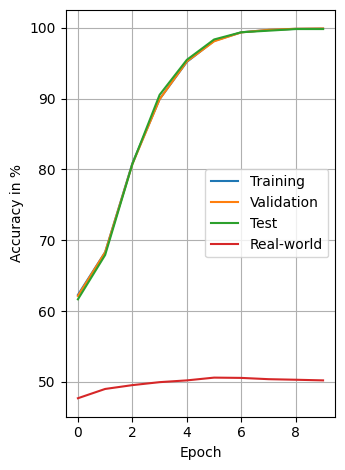
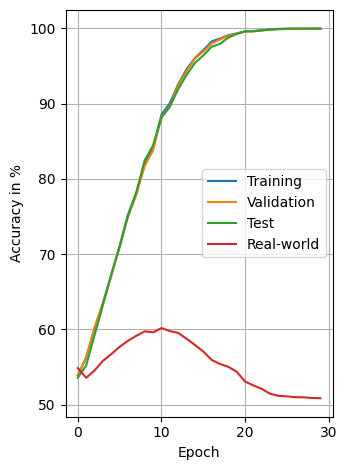
Update training progress figures

diff --git a/doc/source/60_network_surgery.md b/doc/source/60_network_surgery.md
@@ -1,20 +1,17 @@
 # Network surgery
-<!--
-ResNet architecture: https://towardsdatascience.com/understanding-and-visualizing-resnets-442284831be8
-ResNet expects input images of size: 224x224
--->
+
+
+
+
 <!-- 
 How transferable are features in deep neural networks?
 https://papers.nips.cc/paper/2014/hash/375c71349b295fbe2dcdca9206f20a06-Abstract.html
 -->
-We selected a ResNet-50 as the model architecture. We
-modified the base ResNet-50 with the anti-alias improvements from (Zhang, 2019) and used weight norm (Salimans & Kingma, 2016) instead of batch norm (Ioffe &
-Szegedy, 2015) to avoid leaking information about duplicates via batch statistics - a problem previously noted in
-(Henaff, 2020). We also found the GELU activation function (Hendrycks & Gimpel, 2016) to perform better for this
-task. We trained the model with a total batch size of 1,712
-for approximately 30 million images sampled from our pretraining dataset. At the end of training it achieves nearly
-100% accuracy on its proxy training task.
 
+
+
+<!--
 layer switching:
 - preserve CLIP embedding space
 - transfer decision critical layers from given model to CLIP
+-->

diff --git a/doc/source/80_conclusion.md b/doc/source/80_conclusion.md
@@ -1,7 +1,10 @@
 # Conclusion
+<!-- 2-5 sentences, if the explainability method worked as introduction. Then a section with first fat word for each used component. List advantages/disadvantages and limitaions. Last but not least, tell how good/innovative this approach is. -->
 
 ## Outlook
+<!-- 2 generic introduction sentences. Then list improvements, e.g. more challenging dataset, mutliclass prediction, hyperparameter tuning, etc.
+What is the next step? What can one do with this new tech?-->
 
 ## Future work
 - Treat cosine similarity as the loss function value for a minimization problem to not just detect a bias, but optimize an existing model using captions.
-- Moving window over image while observing the similarity score to locate an object.
+- Moving window over image while observing the similarity score to locate an object. Or apply segmentation first, then CLIP.

diff --git a/doc/source/50_fooled_model.md b/doc/source/50_fooled_model.md
@@ -1,4 +1,8 @@
 # Standalone ResNet model
+<!--
+ResNet architecture: https://towardsdatascience.com/understanding-and-visualizing-resnets-442284831be8
+ResNet expects input images of size: 224x224
+-->
 Demonstrating a novel XAI method, a model to be explained is needed. This chapter introduces the trade-off between the interpretability and the accuracy of different machine-learning models, the final choice for the architecture of the fooled standalone model and assesses its performance on the custom dataset.
 
 ## Interpretability vs. accuracy

diff --git a/doc/source/02_abstract.md b/doc/source/02_abstract.md
@@ -78,6 +78,7 @@ The resulting explanation provides an opportunity to improve the model on possib
 [x] add attended courses and seminars to closing words
 [x] chapter results: add unbiased/gray learning curves figures and add accuracy on real-world dataset (~100%)
 [x] retrain models with random color assignments
+[] Why are cosine similarities always larger than 0? Because of the log from the loss function used for training?
 [] coding
     - preparation
         [x] setup dataset
